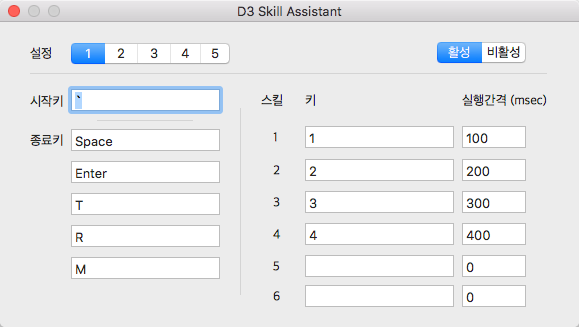
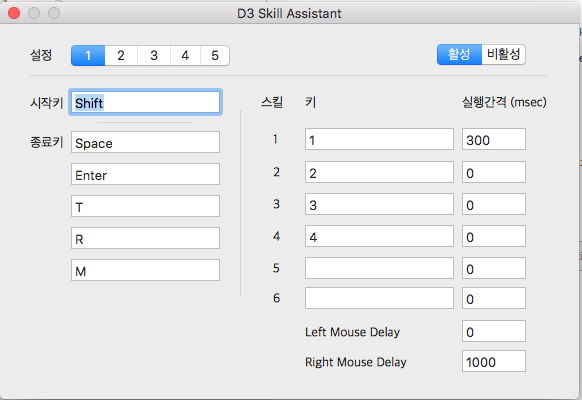
release 1.1

diff --git a/README.md b/README.md
@@ -1,5 +1,6 @@
 # D3-Skill-Assistant
 
+## 소개 
 맥용 디아블로3 헬퍼 프로그램입니다. 
 
 윈도용 헬퍼 프로그램 소개페이지만 참고해서 만든거라 다르게 동작할 수 있습니다. 
@@ -18,5 +19,17 @@
 
 헬퍼 프로그램 사용으로 인해 발생할 수 있는 문제에 대해선 책임지지 않습니다. 
 
-[다운로드  1.0.1](https://github.com/sunghyuk/D3-Skill-Assistant/files/164639/d3a_101.zip) - OS X 10.9 이상 필요합니다. 
-[다운로드 1.1.0] (https://github.com/hjwhang/D3-Skill-Assistant/releases/download/release_1.1.0/D3a111.zip)
+## 다운로드 
+> OS X 10.9 이상 필요합니다. 
+
+- [다운로드 1.1.0] (https://github.com/hjwhang/D3-Skill-Assistant/releases/download/release_1.1.0/D3a111.zip)
+- [다운로드  1.0.1](https://github.com/sunghyuk/D3-Skill-Assistant/files/164639/d3a_101.zip) 
+
+
+## 변경사항 
+
+### 1.1.0
+- 마우스 이벤트 추가 (hjwhang님 감사합니다)
+
+### 1.0.1 
+- 첫 배포 
